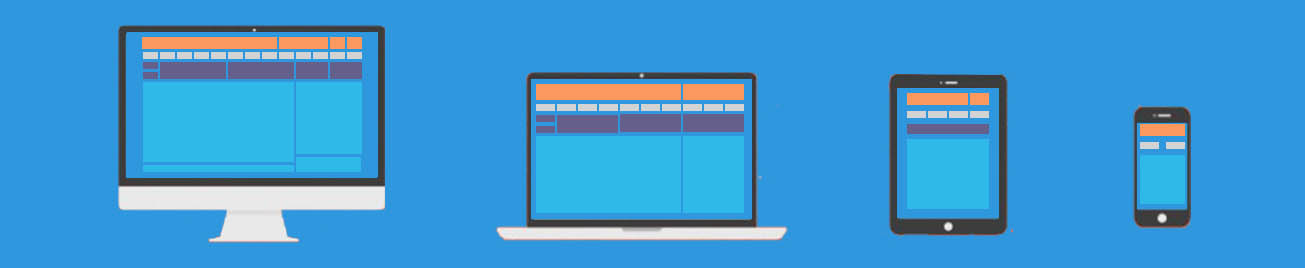
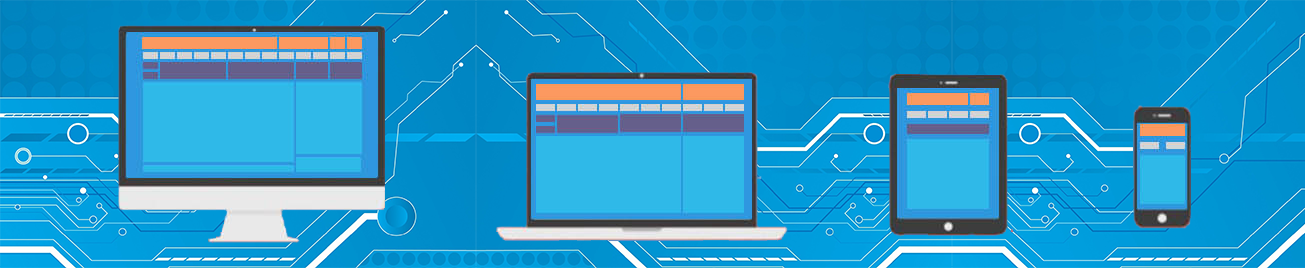
Inserção de imagens

diff --git a/index.html b/index.html
@@ -29,7 +29,7 @@
 				<div class="slider">
 					<ul>
 						<li><img src="img/banner1.jpg"/></li>
-						<li><img src="img/sl2.jpg"/></li>
+						<li><img src="img/banner2.jpg"/></li>
 						<li><img src="img/sl3.jpg"/></li>
 						<li><img src="img/sl4.jpg"/></li>
 					</ul>
@@ -55,12 +55,15 @@
 				<div id="imgs_quemsomos">
 					<div class="imagens">
 						<img src="img/Missão.png" />
+						Missão
 					</div>
 					<div class="imagens">
 						<img src="img/Política%20Empresarial.jpg" />
+						Politica Empresarial
 					</div>
 					<div class="imagens">
-						<img src="img/Missão.png" />
+						<img src="img/Valores.jpg" />
+						Valores
 					</div>
 				</div>
 			</div>
@@ -68,9 +71,18 @@
 		
 		<div class="corpo" id="contato">
 			<div class="conteudo">
-			<br>
-				<h1>Contate-nos</h1>	
-				<br/>
+
+				<h1>Contate-nos</h1>
+
+				<div id="contato-2">
+				<div id="informacoes">
+					<img src="img/logo.png">
+					<p>Taboão da Serra - SP <br />
+						Telefone: (11) 4383- <br />
+						E-mail: nangie.infor@gmail.com
+					</p>
+
+				</div>
 				<div id="formulario">
 				
 					<form action="php/envio.php" method="post">	
@@ -87,6 +99,7 @@
 						<textarea name="mensagem" id="mensagem" rows="10" cols="25" wrap="virtual" placeholder="Mensagem" required></textarea>
 						<input id="enviar" type="submit" value="Enviar">
 					</form>
+				</div>
 				</div>
 			</div>
 		</div>

diff --git a/css/contato.css b/css/contato.css
@@ -1,6 +1,15 @@
 #contato{
 	background-color:#BEBEBE;
 }
+#contato-2{
+	display: inline-flex;
+	margin-top: 120px;
+}
+
+#informacoes{
+	width:450px;
+}
+
 #formulario{
 	background:rgba(0,0,0,0.4);
 	width:450px;

diff --git a/css/menu.css b/css/menu.css
@@ -38,7 +38,6 @@ header label:hover{
 	padding:12px 20px; /*15px cima e baixo - 20px lados */
 	text-decoration:none;
 	color:#fff;
-	font-style:italic;
 	
 }
 .menu li a:hover{

diff --git a/css/inicio.css b/css/inicio.css
@@ -19,7 +19,8 @@
 	/*margin:auto;
 	border-color:#000;*/
 	overflow:hidden;
-	background-color:#000;
+	height: 268px;
+	background-color: #CCCCCC;
 	
 }
 .slider img{

diff --git a/css/quem_somos.css b/css/quem_somos.css
@@ -9,7 +9,7 @@
 div.imagens{
 	width: 396px;
 	padding: 20px;
-	height: 700;
+	height: 530px;
 	border: 1px solid black;
 }
 
